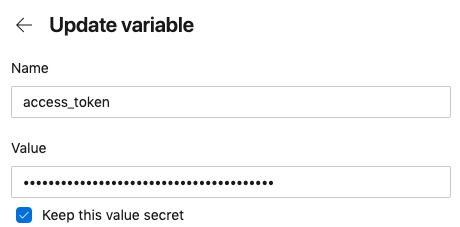
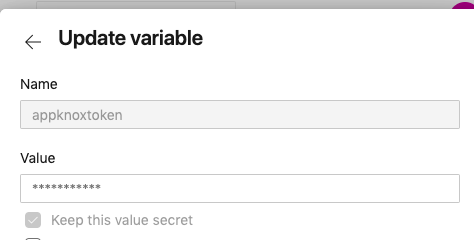
Update binary version

diff --git a/buildAndReleaseTask/index.ts b/buildAndReleaseTask/index.ts
@@ -32,7 +32,7 @@ function getBinaryName() {
 }
 
 async function downloadBinary() {
-    const binName = getBinaryName()
+    const binName = getBinaryName();
     const dPath = downloadPath(binName);
     await download(dPath, path.join(__dirname, "binaries"));
 }
@@ -72,8 +72,11 @@ async function copyAppknox() {
 }
 
 async function upload(filepath: string, riskThreshold: string) {
+    tl.debug("Filepath: " + filepath);
+    tl.debug("Riskthreshold: " + riskThreshold);
     await copyAppknox();
     const appknoxPath = getAppknoxPath();
+    tl.debug("AppknoxBinaryPath: " + appknoxPath);
     try {
         const appknoxUploader = tl.tool(appknoxPath);
         const xargs = tl.tool('xargs')

diff --git a/overview.md b/overview.md
@@ -6,9 +6,9 @@ Following are parameters needed for the task:
 
 |param      | required? | description |
 | ------------- |:-------------:| ----- |
-| `filePath` | true | Path to APK/IPA file |
+| `filePath` | true | Path to APK/IPA binary file |
 |`accessToken`| true | Appknox API Access Token |
-|`riskThreshold`| false | Risk level to fail the build. Avialable options are: `low`, `medium`, `high`, `critical` |
+|`riskThreshold`| true | Risk level to fail the build. Available options are: `Low`, `Medium`, `High`, `Critical`. Defaults to `Low` |
 
 ## Installation
 
@@ -23,17 +23,22 @@ Following are parameters needed for the task:
 ### Add Appknox Task to your Azure Pipeline
 
 1. From Azure Pipelines Edit page Search for the `Appknox` task in the Tasks tab.
+
   ![](images/tasks.png)
 
 2. Configured the required params.
+
   ![](images/basic-config.png)
 
-3. The above configuration uses env variable `$access_token`, please set the value of it in the variables tab.
-  ![](images/variable.png)
+3. `$(appknoxtoken)` is a build variable with its lock enabled on the Variables tab.
+
+   ![](images/variable.png)
+
+   [For more information about Variables](https://docs.microsoft.com/en-us/azure/devops/pipelines/process/variables?view=azure-devops&tabs=yaml%2Cbatch)
 
 #### View Output logs
 
-The above task will upload the binary which will undergo Appknox automated scanning. The progress can be viewed in the pipeline build logs.
+The above task will upload the binary which will initiate Appknox automated scanning. The progress can be viewed in the pipeline build logs.
 
 ![](images/logs.png)
 
@@ -67,7 +72,7 @@ steps:
 
 - task: appknox@0
   inputs:
-    filepath: './app/build/outputs/apk/app-debug.apk'
-    accessToken: '$(access_token)'
+    filepath: './app/build/outputs/apk/debug/app-debug.apk'
+    accessToken: '$(appknoxtoken)'
     riskThreshold: 'medium'
 ```
